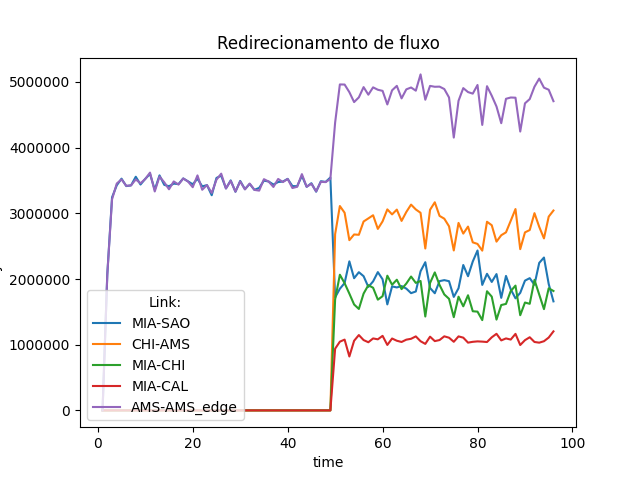
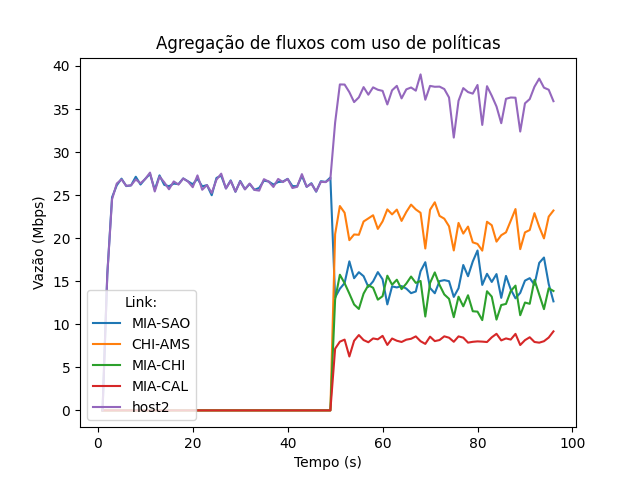
Gráfico do test3

diff --git a/artigo/test3/run4.py b/artigo/test3/run4.py
@@ -1,5 +1,6 @@
 import matplotlib.pyplot as plt
 import matplotlib.ticker as mticker
+import numpy
 
 run=4
 #csv output format: Type rate:
@@ -21,31 +22,53 @@ run=4
 # 15 errors_out 
 
 linkname=['MIA-SAO','CHI-AMS','MIA-CHI','MIA-CAL','','host2']
+colors=['#F6D32D','blue','red','green','','purple']
+
+plt.rc('font', size=16)
+plt.rc('axes', titlesize=16)
+plt.rc('axes', labelsize=16)
+plt.rc('xtick', labelsize=16)
+plt.rc('ytick', labelsize=16)
+plt.rc('legend', fontsize=10)
+plt.rc('figure', titlesize=16)
 for taxa in [ 100 ]:
 	print(f'Taxa: {taxa}mb')
-	for sample in range(1, 11):
-		for router in [ 2, 3, 4, 5, 7]:
+	y=[[],[],[],[],[]]
+	contr = 0
+	for router in [ 2, 3, 4, 5, 7]:
+		x=[]
+		for sample in range(1, 11):
 			arq=f'data/run{run}/{taxa}/{sample}/a{router}.csv'
 			f=open(arq)
 			linhas=f.readlines()
 			f.close()
 
-			y=[]
-			x=[]
 			cont=1
 			for dado in linhas:
-				x.append(cont)
-				cont=cont+1
-				b=dado.split(',')[3]
-				fb=float(b)/1024/1024*8
-				y.append(fb)
-			plt.yscale('linear')
-			plt.plot(x, y, label=linkname[router-2])
-		plt.xlabel('Tempo (s)')
-		plt.ylabel('Vazão (Mbps)') 
-		plt.legend(title='Link:', loc='lower left')
-		plt.title('Agregação de fluxos com uso de políticas')
-		print(f'Sample {sample}: OK')
-		plt.savefig(f'results/run{run}/{taxa}-{sample}.png')
-		plt.clf()
+				if cont < 96:
+					if sample == 1:
+						x.append(cont)
+						y[contr].append([])
+					b=dado.split(',')[3]
+					fb=float(b)/1024/1024*8
+					y[contr][cont-1].append(fb)
+					cont=cont+1
+		m=[]
+#		print('contr:',contr)
+		for cont in range(0,len(y[contr])):
+			m.append(numpy.mean(y[contr][cont]))
+		plt.plot(x, m, linewidth=1, marker='o', markersize=2, label=linkname[router-2], color=colors[router-2])
+		#plt.plot(x, m, label=linkname[router-2], color=colors[router-2])
+		contr = contr+1
+
+	plt.yscale('linear')
+	plt.xlabel('Tempo (s)')
+	plt.ylabel('Vazão (Mbps)') 
+	plt.legend(title='Link:', bbox_to_anchor=(1.05, 1.0), loc='upper left')
+	plt.tight_layout()
+	#plt.legend(title='Link:', loc='lower left')
+	plt.title('Agregação de fluxos com uso de políticas')
+	print(f'Sample {sample}: OK')
+	plt.savefig(f'results/run{run}/{taxa}.png')
+	plt.clf()
 
